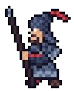
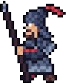
done

diff --git a/src/suhehorse/MySketch.java b/src/suhehorse/MySketch.java
@@ -3,7 +3,13 @@
  * Click nbfs://nbhost/SystemFileSystem/Templates/Classes/Class.java to edit this template
  */
 package suhehorse;
+import java.io.FileWriter;
+import java.io.IOException;
+import java.io.PrintWriter;
 import processing.core.PApplet;
+import java.io.File;  // Import the File class
+import java.io.FileNotFoundException;  // Import this class to handle errors
+import java.util.Scanner; // Import the Scanner class to read text files
 
 public class MySketch extends PApplet {
     
@@ -13,7 +19,7 @@ public class MySketch extends PApplet {
     float news = 0;
     double score = 0;
     double scoreInc = .1;
-    
+    boolean gg = false;
     
     
     public void settings(){
@@ -25,32 +31,83 @@ public class MySketch extends PApplet {
 	   //sets the background colour using R,G,B (https://rgbcolorpicker.com/)
         background(100,100,100);
         textSize(50);
-        gm = new GameManager();
+        gm = new GameManager(this);
         bg = new BackgroundManager(this, this.loadImage("images/background.png"), baseSpeed);
     }
     
     public void draw(){
-        //new speed
-        score += scoreInc;
-        news = baseSpeed + (int)score/30 ;
-        // set speed for gameobjects
+        if (!gg){
+            if (frameCount%(120- (int)(score/10))==0){
+                System.out.println(";aldjfa;kdjf");
+                gm.spawnEnemy();
+            }
+            //new speed
+            score += scoreInc;
+            news = baseSpeed + (int)score/60 ;
+            GameObject.speed = news;
+            // set speed for gameobjects
+
+            if (keyPressed) {
+                if (keyCode == UP) {
+                  gm.suheMove(true);
+                } else if (keyCode == DOWN) {
+                  gm.suheMove(false);
+                }
+            }
+            //Background
+            bg.update();
+            bg.display();
+            bg.setSpeed(news);
+
+            gm.updateAll();
+            gm.displayAll();
+
+            //Score
+            textAlign(CENTER,CENTER);
+            fill(255);
+            this.text(String.format("%.1f", score),640  ,50);
+
+            if (gm.checkGG()){
+                    System.out.println("GGS");
+                    textAlign(CENTER,CENTER);
+                    double highestScore = getHighestScore();
+                    highestScore = Math.max(highestScore,score);
+                    fill(255);
+                    this.text("GGS YOU LOST \n BEST SCORE: " + String.format("%.1f", highestScore) + "\nYOUR SCORE: " + String.format("%.1f", score),640  ,360);
+                    gg = true;
+                    //record best score
+                    recordScore(highestScore);
+            }
+        }
         
         
-        //Background
-        bg.update();
-        bg.display();
-        System.out.println(news);
-        bg.setSpeed(news);
-        
-        //Score
-        textAlign(CENTER,CENTER);
-        fill(255);
-        this.text(String.format("%.1f", score),640  ,50);
-        
-        
-        
-        gm.updateAll();
-        gm.displayAll();
+    }
+    
+    public void recordScore(double score){
+        try {
+            // create printwriter
+            PrintWriter writer = new PrintWriter (new FileWriter("Score.txt", false));
+            // write to file
+            writer.print(String.format("%.1f",score));
+            // close writer
+            writer.close();
+        }
+        // catch exception errors
+        catch(IOException e){
+            System.out.println("Java Exception: " + e);
+        }
+    }
+    
+    public double getHighestScore(){
+        try {
+            Scanner myReader = new Scanner(new File("Score.txt"));
+            String score = myReader.nextLine();
+            System.out.println(score);
+            return Double.parseDouble(score);
+        } catch (FileNotFoundException e) {
+            System.out.println("An error occurred.");
+            return 0;
+        }   
     }
 //    public void drawCollisions(){
 //        if (car.isRectCollidingWith(car2)){

diff --git a/src/suhehorse/GameManager.java b/src/suhehorse/GameManager.java
@@ -6,42 +6,84 @@ package suhehorse;
 
 import processing.core.PApplet;
 import java.util.*;
+import static processing.core.PConstants.CENTER;
 /**
  *
  * @author a
  */
 public class GameManager {
     public Suhe suhe;
-    public ArrayList<GameObject> enemies;
+    public ArrayList<GameObject>[] enemies = new ArrayList[3]; //long is 0, short is 1, soldier is 2
     protected PApplet p;
     private Random random;
     GameManager(PApplet p){
         this.p=p;
         suhe = new Suhe(p, 600,360);
-        enemies = new ArrayList<GameObject>();
-         random = new Random();
+        for (int i = 0; i < enemies.length; i++) {
+            enemies[i] = new ArrayList<>();
+        }
+        random = new Random();
     }
     
     public void spawnEnemy(){
-        // long obstacle
-        if (Math.random() >= 0.5){
-            enemies.add(new ObstacleLong(p, 1350,random.nextInt(721)));
+        if (Math.random() >= 0.7){
+            enemies[2].add(new Enemy(p,1300,random.nextInt(621)));
         }
-        // short 
-        else{
-            enemies.add(new ObstacleShort(p, 1350,random.nextInt(721)));
+        else{ // spown obstacle
+            // long obstacle
+            if (Math.random() >= 0.5){
+                enemies[0].add(new ObstacleLong(p, 1300,random.nextInt(521)));
+            }
+            // short 
+            else{
+                enemies[1].add(new ObstacleShort(p, 1350,random.nextInt(621)));
+            }
         }
     }
     public void updateAll(){
-        suhe.update();
-        for(GameObject obj: enemies){
-            obj.update();
+        for(int i = 0; i <enemies.length;i++){
+            for(int j = 0; j < enemies[i].size();j++){
+                GameObject obj = enemies[i].get(j);
+                if(suhe.isRectCollidingWith(obj) && i != 2){
+                    suhe.push();
+                }
+                if(suhe.isRectCollidingWith(obj) && i==2){
+                    suhe.health -= 20;
+                    enemies[i].remove(j);
+                    j--;
+                }
+                //delete obj that is out
+                if (obj.x <-100){
+                    enemies[i].remove(j);
+                    j--;
+                }
+                obj.update();
+                
+            }
+        }
+    }
+    public boolean checkGG(){
+        if(suhe.x<0 || suhe.health <= 0){
+            return true;
+        }
+        return false;
+    }
+    public void suheMove(boolean up){
+        if (up){
+            suhe.move(0,-5);
+        }
+        else{
+            suhe.move(0,5);
         }
     }
     public void displayAll(){
-        suhe.display();
-        for(GameObject obj: enemies){
-            obj.display();
+        for(ArrayList<GameObject> l:enemies){
+            for(GameObject obj: l){
+                obj.display();
+            }
         }
+       
+        suhe.display();
+        suhe.healthBar();
     }
 }

diff --git a/src/suhehorse/Suhe.java b/src/suhehorse/Suhe.java
@@ -4,8 +4,7 @@
  */
 package suhehorse;
 import processing.core.PApplet;
-import static processing.core.PConstants.DOWN;
-import static processing.core.PConstants.UP;
+
 import processing.core.PImage;
 
 /**
@@ -14,9 +13,9 @@ import processing.core.PImage;
  */
 public class Suhe extends GameObject{
     public int health;
-    
     Suhe(PApplet p, float x, float y){
-        super(p,x,y, "images/suhe.png");
+        super(p,x,y, null);
+        super.setImage(p.loadImage("images/suhe.png"));
         health = 100;
     }
     
@@ -29,15 +28,15 @@ public class Suhe extends GameObject{
             y = nextY;
         }
     }
-    @Override
-    public void update(){
-        if (keyPressed) {
-            if (keyCode == UP) {
-              suhe.move(0, -5);
-            } else if (keyCode == DOWN) {
-              suhe.move(0, 5);
-            }
-        }
+    public void push(){
+        x-=speed;
+    }
+    
+    public void healthBar(){
+        app.fill(255);
+        app.rect(50,35,200,30);
+        app.fill(255,0,0);//red
+        app.rect(50,35, health*2, 30);
     }
     
 }

diff --git a/src/suhehorse/GameObject.java b/src/suhehorse/GameObject.java
@@ -16,13 +16,17 @@ public class GameObject {
     public float width, height;
     protected PImage image;
     protected PApplet app;
-    public float speed;
-    GameObject(PApplet p, float x,float y, String path){
+    public static float speed;
+    GameObject(PApplet p, float x,float y, PImage i){
         app = p;
         this.x = x;
         this.y = y;
-        this.image = app.loadImage(path);
+        this.image = i;
         
+        
+    }
+    public void setImage(PImage i){
+        image = i;
         height = image.pixelHeight;
         width = image.pixelWidth;
     }
@@ -35,6 +39,7 @@ public class GameObject {
     }
     public void setSpeed(float s) {
             speed = s;}
+    
     public void display(){
         app.image(image,x,y);
     }

diff --git a/src/suhehorse/ObstacleLong.java b/src/suhehorse/ObstacleLong.java
@@ -5,16 +5,18 @@
 package suhehorse;
 
 import processing.core.PApplet;
-
+import processing.core.PImage;
 /**
  *
  * @author 350326790
  */
 public class ObstacleLong extends GameObject{
-    
+    PImage img;
     ObstacleLong(PApplet p, float x, float y){
-        
-        super(p, x, y, "images/obstacle2");
+        super(p,x,y, null);
+        img = p.loadImage("images/obstacle2.png");
+        img.resize(0,200);
+        super.setImage(img);
     }
     
     

diff --git a/src/suhehorse/ObstacleShort.java b/src/suhehorse/ObstacleShort.java
@@ -5,14 +5,19 @@
 package suhehorse;
 
 import processing.core.PApplet;
+import processing.core.PImage;
 
 /**
  *
  * @author 350326790
  */
 public class ObstacleShort extends GameObject{
-
+    PImage img;
     ObstacleShort(PApplet p, float x, float y){
-        super(p, x, y, "images/obstacle");
+        super(p,x,y, null);
+        img = p.loadImage("images/obstacle.png");
+        img.resize(0,100);
+        super.setImage(img);
+   
     }
 }

diff --git a/src/suhehorse/Enemy.java b/src/suhehorse/Enemy.java
@@ -5,14 +5,17 @@
 package suhehorse;
 
 import processing.core.PApplet;
-
+import processing.core.PImage;
 /**
  *
  * @author 350326790
  */
 public class Enemy extends GameObject{
-    
+    PImage img;
     Enemy(PApplet p, float x, float y){
-        super(p, x, y, "images/enemy");
+        super(p,x,y, null);
+        img = p.loadImage("images/enemy.png");
+        img.resize(0,120);
+        super.setImage(img);
     }
 }
